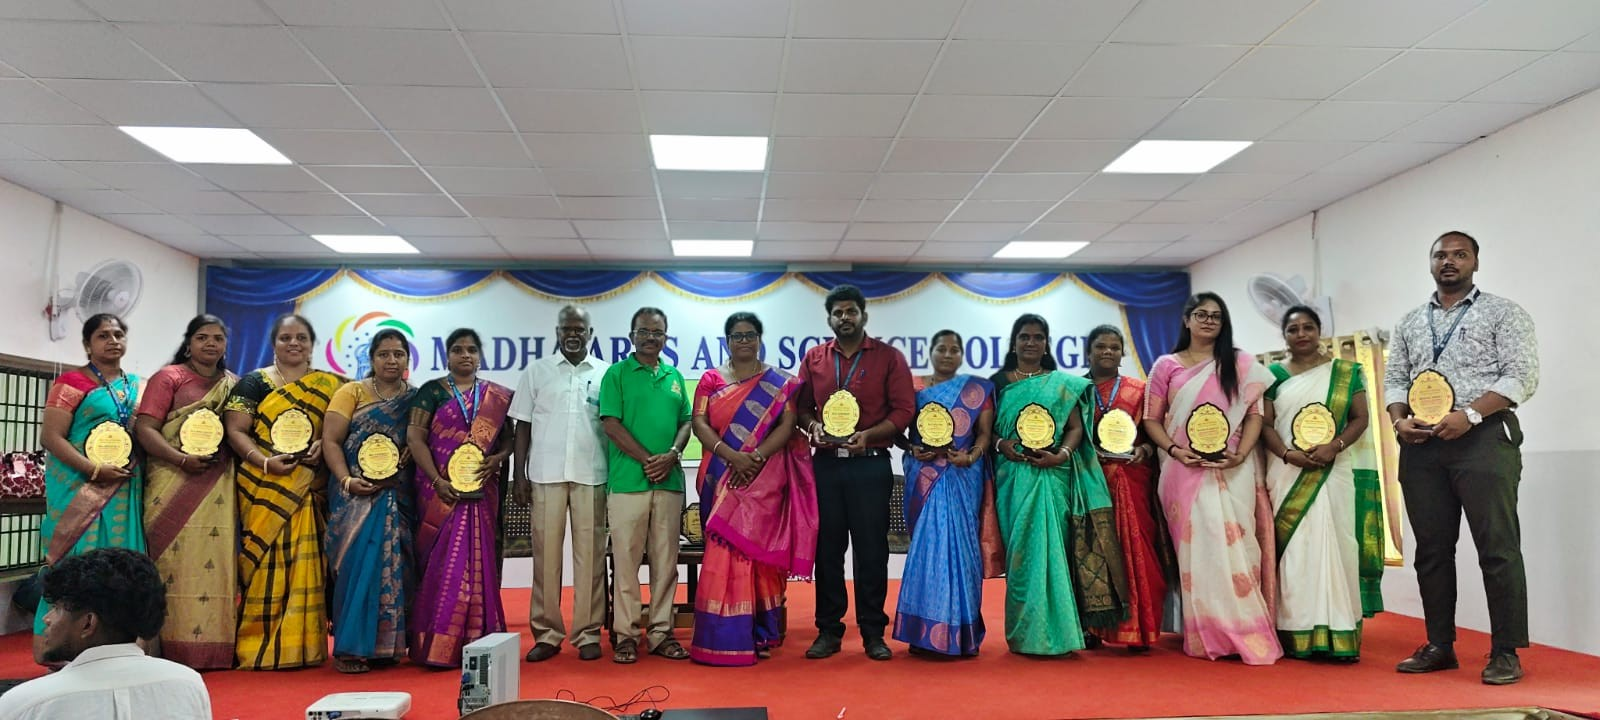
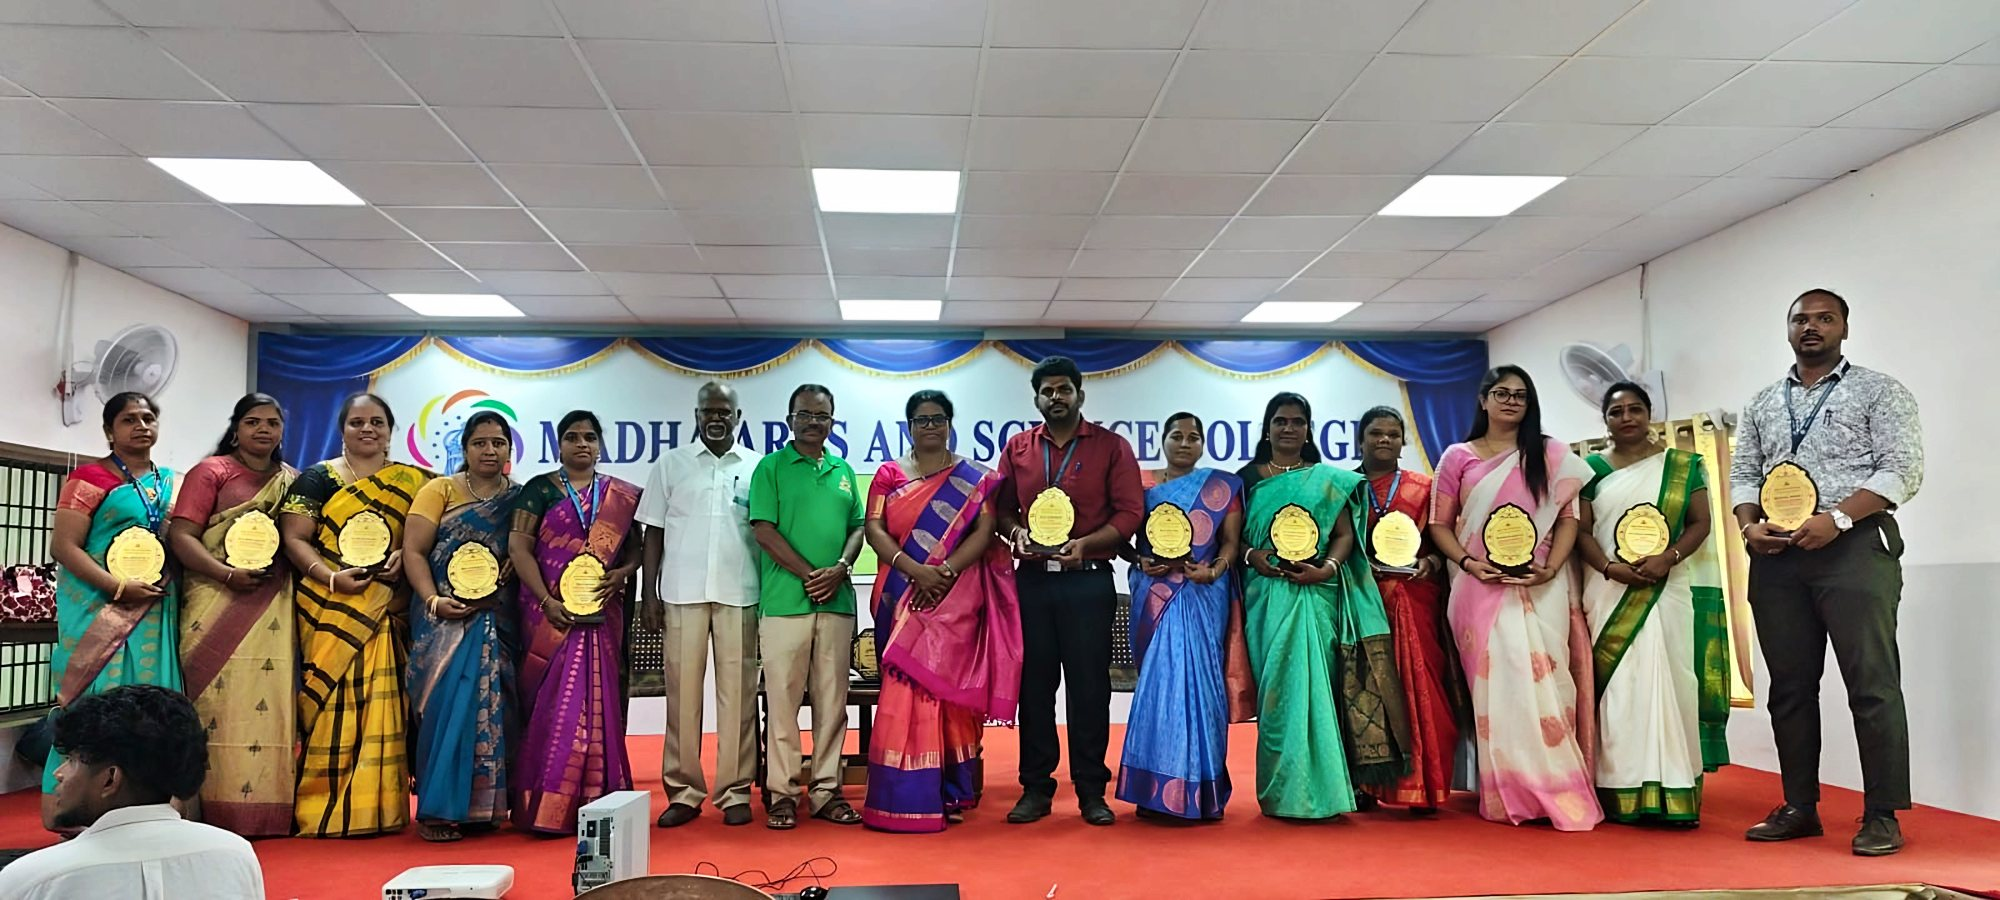
Enhance the Campus Life header photo
The 1600px WhatsApp photo was soft from phone and WhatsApp compression.
It is now upscaled to 2000px with realesr-general-x4v3 at half strength
plus a light grade, like the older photos; faces and banner lettering
were checked for AI changes. The job is added to enhance_images.py and
the README notes the treatment. Header text still passes 4.5:1.

Claude-Session: https://claude.ai/code/session_016YnfBKe1DtfPj6bWe2RDZu

diff --git a/campus-life.html b/campus-life.html
@@ -67,7 +67,7 @@
 
   <main id="main">
     <section class="page-hero page-hero--bright">
-      <div class="page-hero__media"><img src="assets/img/event-teachers-day.jpg" alt="" width="1600" height="720"></div>
+      <div class="page-hero__media"><img src="assets/img/event-teachers-day.jpg" alt="" width="2000" height="900"></div>
       <div class="container page-hero__inner">
         <div class="page-hero__content">
           <ol class="crumbs" aria-label="Breadcrumb"><li><a href="index.html">Home</a></li><li aria-current="page">Campus Life</li></ol>

diff --git a/tools/enhance_images.py b/tools/enhance_images.py
@@ -139,6 +139,7 @@ JOBS = [
     ("group.jpg", "madha-group-campus.jpg", None, PLUS, 1400, (0.85, [(0.335, 0.325, 0.48, 0.375)]), dict(sky=0.35, wb=0.4)),
     ("madha-group.jpg", "classroom.jpg", None, GEN, 1600, 0.5, dict(wb=0.45, vib=0.12)),
     ("banner-3.jpg", "event-college-day.jpg", None, GEN, 1800, 0.5, dict(wb=0.3, clahe=0.35, vib=0.1)),
+    ("TeachersDay Sep 2026.jpeg", "event-teachers-day.jpg", None, GEN, 2000, 0.5, dict(wb=0.3, clahe=0.35, vib=0.1)),
     ("banner-2.jpg", "event-christmas.jpg", None, GEN, 1800, 0.5, dict(wb=0.25, clahe=0.4, vib=0.05)),
     ("banner-4.jpg", "sports-cricket.jpg", None, GEN, 1800, 0.55, dict(wb=0.5, clahe=0.5, sky=0.3)),
     ("banner-5.jpg", "outreach-traffic-awareness.jpg", None, GEN, 1800, 0.5, dict(wb=0.45, clahe=0.45)),

diff --git a/README.md b/README.md
@@ -61,7 +61,8 @@ The photos behind **Recent events**, the newer gallery tiles and the Academics "
 Most were social-media collages, so `tools/prepare_photos.py` cuts a single frame out of each, trims the white collage gutters and saves a web JPEG without metadata.
 They are not AI-enhanced. Run `python tools/prepare_photos.py "<folder of the supplied photos>"` to rebuild them.
 
-The Campus Life page header, `event-teachers-day.jpg` (Teachers' Day, September 2026), came as a single photo rather than a collage and is used unchanged at 1600px wide.
+The Campus Life page header, `event-teachers-day.jpg` (Teachers' Day, September 2026), came as a single photo rather than a collage.
+Because it fills the full page width, it is AI-enhanced like the older photos: `tools/enhance_images.py` upscales the 1600px WhatsApp image to 2000px with `realesr-general-x4v3` at half strength and a light grade (source file `TeachersDay Sep 2026.jpeg`).
 
 Not used: the three admissions flyers (graphics, not photos), the event posters inside the collages, and a group photo with a burned-in camera timestamp.
 Some collage frames are small (about 520–800px wide), and the vetiver-planting frame is a soft video still, so the original files would look sharper.
